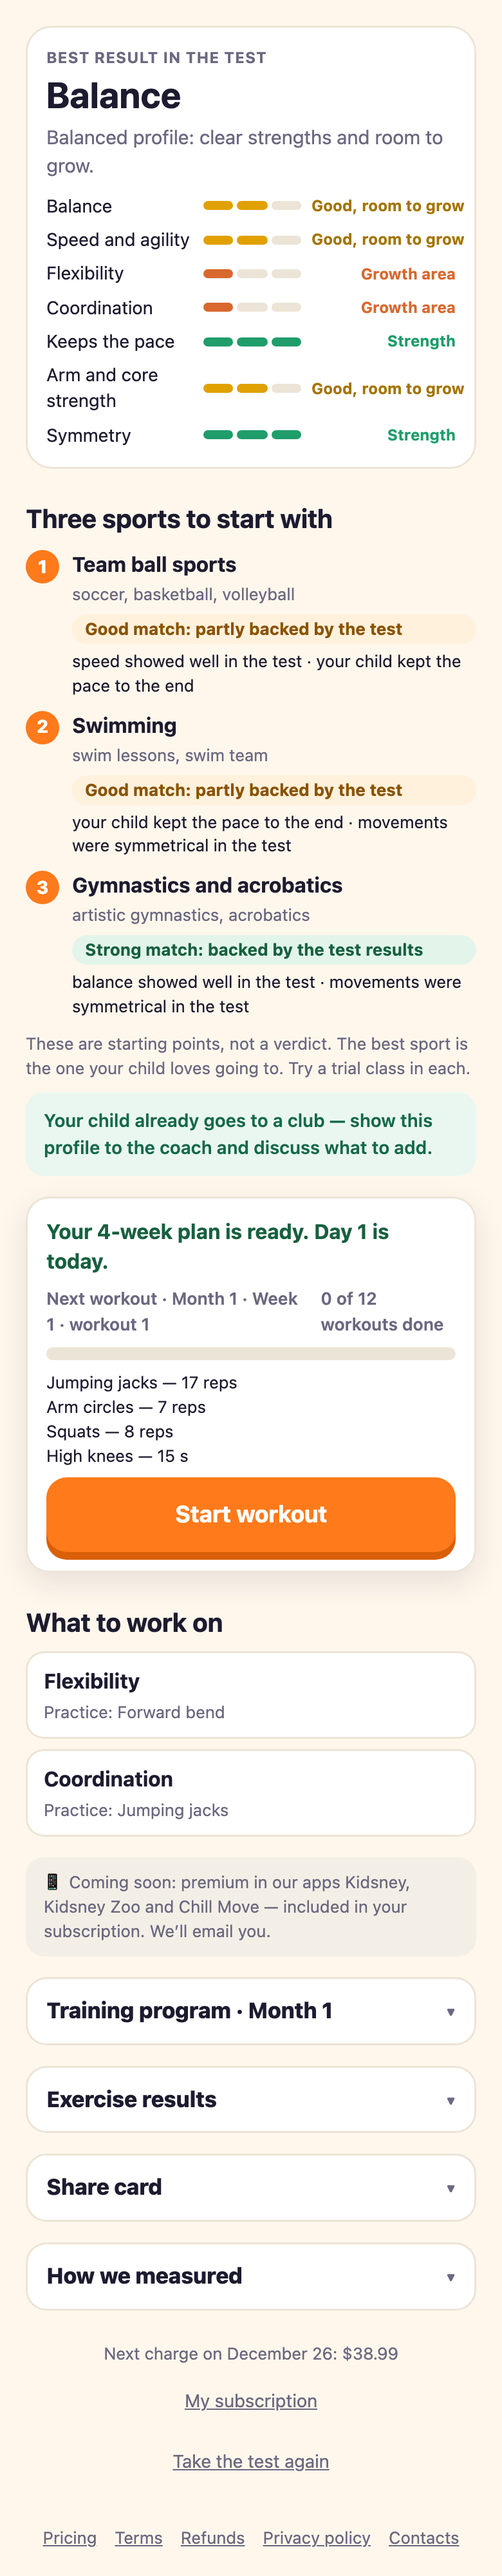
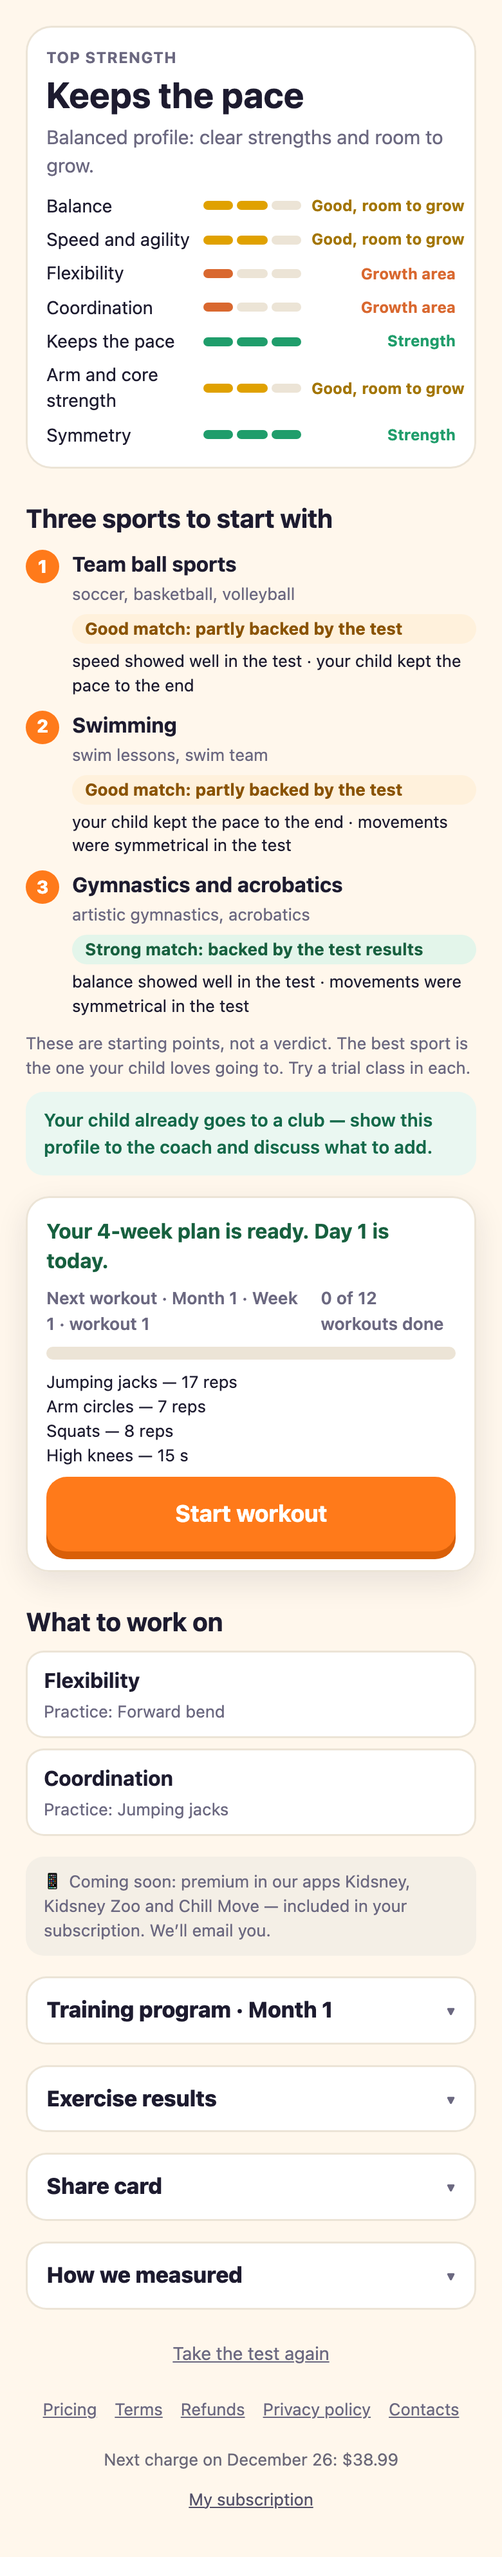
Пейвол: первый экран = лучший результат строкой, 3 закрытых вида спорта, цена и кнопка оплаты без прокрутки; язык вверху главной; упор лёжа: старт по упору, рука запасной

diff --git a/js/app.js b/js/app.js
@@ -48,10 +48,11 @@ const cleanUrl = () => { try { history.replaceState(null, '', location.pathname 
 // ---------- 1. Первый экран ----------
 function landing() {
   setState({ step: 'landing' });
-  screen(`<div class="hero"><div class="hero-art">${ART.hero}</div><h1>${esc(T.landing.title)}</h1><p class="promise">${esc(T.landing.promise)}</p></div>
+  // Выбор языка вверху: внизу его закрывала панель Safari (прогон 26.11)
+  const langs = Object.keys(LOCALES).length > 1 ? `<div class="langs top">${Object.entries({ en: 'English', de: 'Deutsch', uk: 'Українська' }).filter(([k]) => LOCALES[k] && (k === LANG || !(CONFIG.linkOnlyLanguages || []).includes(k))).map(([k, v]) => `<a href="?lang=${k}" class="${k === LANG ? 'on' : ''}">${v}</a>`).join('')}</div>` : '';
+  screen(`${langs}<div class="hero"><div class="hero-art">${ART.hero}</div><h1>${esc(T.landing.title)}</h1><p class="promise">${esc(T.landing.promise)}</p></div>
     <ul class="points">${T.landing.points.map((p) => `<li>${esc(p)}</li>`).join('')}</ul><div class="trust-box"><span class="tb-ic" aria-hidden="true">🏅</span><span>${esc(T.landing.trustShort)}</span></div><div class="grow"></div>
     <button class="btn" data-act="start">${esc(T.landing.cta)}</button><p class="small muted center land-note">${esc(T.landing.note)} ${esc(T.result.shortNote)}</p><p class="small muted center land-note">${esc(T.landing.trustNote)}</p>
-    ${Object.keys(LOCALES).length > 1 ? `<div class="langs">${Object.entries({ en: 'English', de: 'Deutsch', uk: 'Українська' }).filter(([k]) => LOCALES[k] && (k === LANG || !(CONFIG.linkOnlyLanguages || []).includes(k))).map(([k, v]) => `<a href="?lang=${k}" class="${k === LANG ? 'on' : ''}">${v}</a>`).join('')}</div>` : ''}
     ${subapi.subOn() ? `<button class="link center" data-act="restore">${esc(T.paywall.restore)}</button>` : ''}
     ${legalLinks()}`, {
     restore: async () => {
@@ -225,7 +226,7 @@ function sportsTeaser(profile) {
   return `<div class="teaser"><h3>${esc(P.sportsTitle)}</h3><p class="small muted">${esc(P.sportsLead)}</p>
     ${sports.map((x, i) => `<div class="lock-card"><span class="lock-n">${i + 1}</span><div><b>${esc(P.match(i + 1))}</b><small>${esc(P.basedOn(why(x)))}</small></div><span class="lock-ic" aria-hidden="true">🔒</span></div>`).join('')}</div>`;
 }
-function paywallCard(note = '', profile = null) {
+function paywallCard(note = '', profile = null, part = 'all') {
   const P = T.paywall, R = T.result;
   const renewAt = Date.now() + SUB.periodDays * DAY;
   const focus = T.program.focus[state.quiz.likes] || T.program.focus.none;
@@ -235,16 +236,19 @@ function paywallCard(note = '', profile = null) {
       <div class="pc-row"><div><b>${esc(P.firstLabel(SUB.periodDays))}</b><small>${esc(P.perDay(money(Math.round((first / SUB.periodDays) * 100) / 100)))}</small></div>
       <div class="pc-price">${on ? `<s>${esc(money(PRICE.regular))}</s>` : ''}<b>${esc(money(first))}</b></div></div>
       <p class="renew">${esc(P.renew(money(PRICE.regular), SUB.periodDays, fmtDate(renewAt)))}</p>
-      ${id ? `<label class="email-field"><span class="small">${esc(P.emailLabel)}</span><input class="field" type="email" inputmode="email" autocomplete="email" data-el="email" value="${esc(state.email || '')}" maxlength="120" placeholder="name@example.com"></label>` : ''}
+      ${id ? `<label class="email-field"><span class="small">${esc(P.emailLabel)}</span><input class="field" type="email" inputmode="email" autocomplete="email" data-el="email" value="${esc(state.email || '')}" maxlength="120" placeholder="${esc(P.emailPh || 'name@example.com')}"></label>` : ''}
       ${needWithdrawal() ? `<label class="check small"><input type="checkbox" data-el="withdrawal"><span>${esc(P.withdrawal)}${P.withdrawalLink ? ` <a href="${P.withdrawalLink.href}" target="_blank" rel="noopener">${esc(P.withdrawalLink.text)}</a>` : ''}</span></label>` : ''}
       <button class="btn" data-act="pay">${esc(P.cta(money(first)))}</button>
       <p class="trust small center">🔒 ${esc(P.trust)}</p>
       <p class="small center testmode" hidden style="color:#b45309;font-weight:600">${esc(P.testMode)}</p></div>`;
-  return `<div class="paywall" id="paywall"><h2>${esc(P.title)}</h2>${note ? `<p class="err">${esc(note)}</p>` : ''}
+  // Первый экран после теста (Юрий 26.11): закрытые виды спорта и цена с кнопкой оплаты без прокрутки; подробности ниже
+  if (part === 'head') return `<div class="paywall pw-head" id="paywall">${note ? `<p class="err">${esc(note)}</p>` : ''}${sportsTeaser(profile)}${priceBox('price-top')}</div>`;
+  const tail = part === 'tail';
+  return `<div class="paywall${tail ? ' pw-tail' : ''}"${tail ? '' : ' id="paywall"'}>${tail ? '' : `<h2>${esc(P.title)}</h2>${note ? `<p class="err">${esc(note)}</p>` : ''}
     <p>${esc(P.lead())}</p>
-    ${sportsTeaser(profile)}
+    ${sportsTeaser(profile)}`}
     <div class="focus-box"><small>${esc(P.focusTitle)}</small><b>${esc(focus)}</b></div>
-    ${priceBox('price-top')}
+    ${tail ? '' : priceBox('price-top')}
     <h3>${esc(P.inside)}</h3><ul class="checks-list">${[...P.insideItems, ...(appAccess() === 'live' ? [T.apps.includedItem] : [])].map((x) => `<li>${esc(x)}</li>`).join('')}</ul>
     <div class="price-mini"><div><b>${esc(money(first))}</b>${on ? ` <s>${esc(money(PRICE.regular))}</s>` : ''}<small>${esc(P.firstLabel(SUB.periodDays))}</small></div><button class="btn" data-act="to-top">${esc(P.unlock)}</button></div>
     <p class="fine">${esc(P.fine(money(first), money(PRICE.regular), SUB.periodDays))}</p>
@@ -285,13 +289,20 @@ function result(note = '') {
   } else {
     offerDeadline(true); // таймер скидки до первой цены на странице — иначе плашка сверху показала бы полную цену
     const s = headline(profile);
-    body = `<span class="badge">${esc(R.badge)}</span><h1 class="rtitle">${esc(R.title)}</h1><p class="summary">${esc(R.summary[profile.summary])}</p>
-      ${s ? `<div class="strong"><small>${esc(profile.qualities[s].level >= 3 ? R.strongest : R.strongestBest)}</small><b>${esc(R.qualities[s].name)}</b><span>${esc(R.qualities[s].d)}</span><span><b style="font-size:16px">${esc(R.levels[profile.qualities[s].level])}</b></span></div>` : ''}
-      <p class="small muted">${esc(R.shortNote)}</p>
-      ${dismissed ? '' : `<button class="price-chip" data-act="to-top"><b>${esc(money(firstPrice()))}</b><span>${esc(T.paywall.unlock)}</span><i aria-hidden="true">↓</i></button>`}
+    const lvl = s ? profile.qualities[s].level : 0;
+    body = dismissed
+      ? `<span class="badge">${esc(R.badge)}</span><h1 class="rtitle">${esc(R.title)}</h1><p class="summary">${esc(R.summary[profile.summary])}</p>
+      ${s ? `<div class="strong"><small>${esc(lvl >= 3 ? R.strongest : R.strongestBest)}</small><b>${esc(R.qualities[s].name)}</b><span>${esc(R.qualities[s].d)}</span><span><b style="font-size:16px">${esc(R.levels[lvl])}</b></span></div>` : ''}
       <h2 class="sec-title">${esc(R.profile)}</h2>
       <div class="locked"><div class="locked-list">${qualitiesOf(state.results).filter((q) => q !== s).map(qRowLocked).join('')}</div></div>
-      ${dismissed ? `<div class="sticky-pay"><button class="btn" data-act="pay">${esc(T.paywall.cta(money(firstPrice())))}</button></div><p class="renew">${esc(T.paywall.renew(money(PRICE.regular), SUB.periodDays, fmtDate(Date.now() + SUB.periodDays * DAY)))}</p><p class="terms">${esc(T.paywall.terms)}</p>${exitOffer()}` : paywallCard(note, profile)}
+      <div class="sticky-pay"><button class="btn" data-act="pay">${esc(T.paywall.cta(money(firstPrice())))}</button></div><p class="renew">${esc(T.paywall.renew(money(PRICE.regular), SUB.periodDays, fmtDate(Date.now() + SUB.periodDays * DAY)))}</p><p class="terms">${esc(T.paywall.terms)}</p>${exitOffer()}`
+      : `<h1 class="rtitle compact">${esc(R.title)}</h1>
+      ${s ? `<p class="best-line"><span>${esc(lvl >= 3 ? R.strongest : R.strongestBest)}:</span> <b>${esc(R.qualities[s].name)}</b> · ${esc(R.levels[lvl])}</p>` : ''}
+      ${paywallCard(note, profile, 'head')}
+      <h2 class="sec-title">${esc(R.profile)}</h2><p class="small muted">${esc(R.summary[profile.summary])} ${esc(R.shortNote)}</p>
+      <div class="locked"><div class="locked-list">${qualitiesOf(state.results).filter((q) => q !== s).map(qRowLocked).join('')}</div></div>
+      ${paywallCard(note, profile, 'tail')}`;
+    body += `
       <button class="link center" data-act="again">${esc(R.again)}</button>`;
   }
   screen(body, {

diff --git a/css/app.css b/css/app.css
@@ -433,3 +433,33 @@ button, .btn, .opt, .glass-btn, .pill-link, a.btn, [data-act] { -webkit-user-sel
 .price-chip span { flex: 1; font-size: 15px; }
 .price-chip i { font-style: normal; font-size: 18px; color: var(--accent); }
 .big-ring[hidden] { display: none; }
+
+.langs.top { justify-content: flex-end; margin: -6px 0 2px; gap: 14px; font-size: 14px; }
+/* Пейвол: первый экран = результат одной строкой, закрытые виды спорта, цена и кнопка без прокрутки */
+.rtitle.compact { font-size: 24px; margin: 0; }
+.best-line { margin: 2px 0 0; font-size: 15px; } .best-line span { color: var(--muted); } .best-line b { color: var(--accent); }
+.pw-head { gap: 10px; }
+.pw-head .teaser h3 { font-size: 17px; margin: 0; }
+.pw-head .teaser > p { display: none; }
+.pw-head .lock-card { padding: 8px 12px; }
+.pw-head .lock-card small { font-size: 12px; }
+.pw-head .price-card .renew { font-size: 12px; line-height: 1.3; padding: 6px 10px; }
+.pw-head .price-card .email-field .small { font-size: 12px; }
+.pw-head .price-card .field { min-height: 44px; padding: 8px 12px; }
+.pw-head .price-card .check { font-size: 12px; line-height: 1.3; }
+.pw-head .price-card .pc-row b { font-size: 16px; } .pw-head .price-card .pc-price b { font-size: 26px; }
+.pw-head { padding: 0; background: none; box-shadow: none; border: 0; }
+.pw-head .teaser { padding: 0; background: none; box-shadow: none; gap: 6px; }
+.pw-head .lock-card { padding: 6px 10px; min-height: 0; gap: 10px; }
+.pw-head .lock-card b { font-size: 15px; }
+.pw-head .lock-n { width: 28px; height: 28px; font-size: 15px; }
+.pw-head .price-card { padding: 12px 14px; gap: 8px; }
+.pw-head .price-card .timer { font-size: 14px; padding: 4px 10px; }
+.pw-head .email-field .small { display: block; white-space: nowrap; overflow: hidden; text-overflow: ellipsis; }
+.pw-head .price-card .btn { min-height: 52px; }
+.best-line { font-size: 14px; }
+.rtitle.compact { font-size: 22px; }
+.pw-head .email-field .small { display: none; }
+.pw-head .price-card .pc-row small { display: none; }
+.pw-head .teaser { gap: 4px; }
+.pw-head .teaser h3 { font-size: 16px; }

diff --git a/js/stage.js b/js/stage.js
@@ -215,7 +215,9 @@ function intro(p, i, n) {
     const pv = $('video.panda', hud); if (pv) { pv.play().catch(() => {}); pv.onerror = () => { pv.style.display = 'none'; }; } // нет сети до видео — остаются текст и голос
     const ring = $('[data-el=ring]', hud);
     // Стоя — поднятая рука (1,5 с); в упоре лёжа — удержание упора 2 с
-    const gesture = ex.floor ? createPlankHold() : createRaiseHand();
+    // В упоре лёжа старт по самому упору (2 с); поднятая рука — запасной вариант (Юрий 26.11)
+    const plank = ex.floor ? createPlankHold() : null, hand = createRaiseHand();
+    const gesture = { frame: (lm, ts) => { const a = hand.frame(lm, ts); if (!plank) return a; const b = plank.frame(lm, ts); return a.fired || b.fired ? { progress: 1, fired: true } : b.progress >= a.progress ? b : a; } };
     // Голос «Підніми руку»: после инструкции, потом напоминания (как в Kidsney: 20 с, затем каждые 15 с, не больше 3 раз)
     let reminders = 0;
     const remind = () => { if (ended || ex.floor) return; say('ui_raise_hand', { interrupt: false }); if (++reminders < 3) remindTimer = setTimeout(remind, 15000); };

diff --git a/js/i18n/uk.js b/js/i18n/uk.js
@@ -293,6 +293,7 @@ export default {
       ['Чи бачите ви відео з камери?', () => 'Ні. Відео обробляється на телефоні й нікуди не надсилається.'],
     ],
     fine: (first, regular, days) => `Натискаючи «Оформити підписку», ви погоджуєтеся на підписку: перший платіж ${first} за ${days} днів, далі ${regular} кожні ${days} днів до скасування. Скасувати можна будь-коли в розділі «Моя підписка»; доступ зберігається до кінця оплаченого періоду. Ціни в гривнях з урахуванням усіх податків.`,
+    emailPh: 'Ваш email для посилання на звіт',
     emailLabel: 'Email — надішлемо умови підписки й посилання, щоб відкрити програму на будь-якому пристрої',
     emailBad: 'Вкажіть email, щоб ми надіслали умови й доступ.',
     restore: 'Вже є підписка? Відновити доступ',

diff --git a/js/i18n/de.js b/js/i18n/de.js
@@ -290,6 +290,7 @@ export default {
       ['Sehen Sie das Kameravideo?', () => 'Nein. Das Video wird auf dem Handy verarbeitet und nirgendwohin gesendet.'],
     ],
     fine: (first, regular, days) => `Mit Tippen auf „Zahlungspflichtig abonnieren“ schließen Sie ein Abo ab: erste Zahlung ${first} für ${days} Tage, danach ${regular} alle ${days} Tage bis zur Kündigung. Jederzeit kündbar über „Verträge hier kündigen“; der Zugang bleibt bis zum Ende des bezahlten Zeitraums. Preise inkl. MwSt.`,
+    emailPh: 'Ihre E-Mail für den Zugangslink',
     emailLabel: 'E-Mail — wir senden die Abo-Bedingungen und einen Link für jedes Gerät',
     emailBad: 'Bitte E-Mail angeben, damit wir Bedingungen und Zugang senden können.',
     restore: 'Schon abonniert? Zugang wiederherstellen',

diff --git a/js/i18n/en.js b/js/i18n/en.js
@@ -291,6 +291,7 @@ export default {
       ['Do you see the camera video?', () => 'No. Video is processed on your phone and never uploaded.'],
     ],
     fine: (first, regular, days) => `By tapping “Subscribe”, you agree to a subscription: first payment ${first} for ${days} days, then ${regular} every ${days} days until you cancel. Cancel anytime in “My subscription”; access stays until the end of the paid period. Prices include all applicable taxes.`,
+    emailPh: 'Your email for the report link',
     emailLabel: 'Email — we’ll send the terms and a link to open the program on any device',
     emailBad: 'Enter your email so we can send the terms and access link.',
     restore: 'Already subscribed? Restore access',
